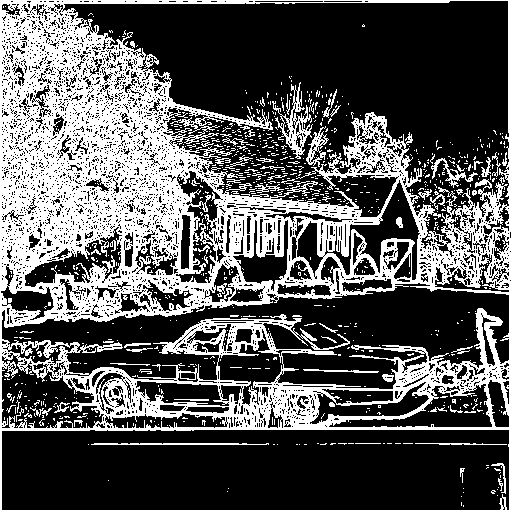
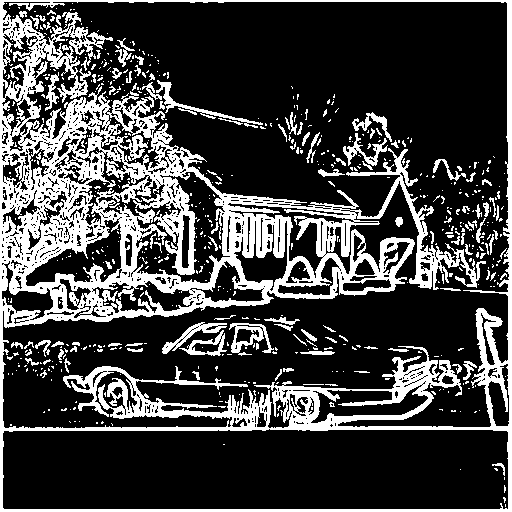
image output

diff --git a/HWcoding/HWcoding/HW5.cpp b/HWcoding/HWcoding/HW5.cpp
@@ -5,12 +5,6 @@
 using namespace std;
 using namespace cv;
 
-enum class FilterMethod {
-	MEAN,
-	MEDIAN,
-	GAUSSIAN
-};
-
 enum class EdgeOperatorName {
 	PREWITT_VERTICAL,
 	PREWITT_HORIZONTAL,
@@ -22,19 +16,20 @@ enum class EdgeOperatorName {
 	LAPLACIAN_TWO
 };
 
-class FilterImage {
+class GassianFilter {
 private:
+	const int KERNEL_SIZE = 3;
 	vector<double> _gaussianKernel;
-	uchar(FilterImage::* _getValueFunc)(vector<uchar>) = nullptr;
+	int rowIndex, colIndex;
 
 	// 用kernelSize*kernelSize卷積回傳鄰近的像素點
-	vector<uchar> getConvolutionList(const Mat& source, int row, int col, int kernelSize) {
-		vector<uchar> pixelList(kernelSize * kernelSize);
+	vector<uchar> getConvolutionList(const Mat& source) {
+		vector<uchar> pixelList(KERNEL_SIZE * KERNEL_SIZE);
 		int pixelListIndex = 0;
-		int start = -kernelSize / 2, end = start + kernelSize - 1; // if kernelSize = 3*3, start = -1, end = 1 etc...
+		int start = -KERNEL_SIZE / 2, end = start + KERNEL_SIZE - 1; // if kernelSize = 3*3, start = -1, end = 1 etc...
 		for (int windowRow = start; windowRow <= end; ++windowRow) {
 			for (int windowCol = start; windowCol <= end; ++windowCol) {
-				int nRow = row + windowRow, nCol = col + windowCol;
+				int nRow = rowIndex + windowRow, nCol = colIndex + windowCol;
 				if (nRow >= 0 && nRow < source.rows && nCol >= 0 && nCol < source.cols) {
 					pixelList.at(pixelListIndex++) = source.at<uchar>(nRow, nCol);
 				}
@@ -44,41 +39,6 @@ private:
 			}
 		}
 		return pixelList;
-	}
-
-	// 取得卷積範圍內的 Mean 值
-	uchar getMeanValue(vector<uchar> pixelList) {
-		int value = 0;
-		int pixelAmount = pixelList.size();
-		for (int pixelIndex = 0; pixelIndex < pixelAmount; ++pixelIndex) {
-			value += (int)pixelList.at(pixelIndex);
-		}
-		return round((double)value / pixelAmount);
-	}
-
-	// 快速排序函数
-	void quickSort(vector<uchar>& nums, int left, int right) {
-		if (left >= right) return;
-		int i = left, j = right, pivot = nums[left + (right - left) / 2];
-		while (i <= j) {
-			while (nums[i] < pivot) i++;
-			while (nums[j] > pivot) j--;
-			if (i <= j) {
-				swap(nums[i], nums[j]);
-				i++;
-				j--;
-			}
-		}
-		quickSort(nums, left, j);
-		quickSort(nums, i, right);
-	}
-
-	// 取得卷積範圍內排序後的 Median 值
-	uchar getMedianValue(vector<uchar> pixelList) {
-		quickSort(pixelList, 0, pixelList.size() - 1);
-		int index = 0;
-		int medianIndex = (pixelList.size() - 1) / 2;
-		return pixelList.at(medianIndex);
 	}
 
 	// 取得卷積範圍內的 Gaussian 值
@@ -91,16 +51,17 @@ private:
 	}
 
 public:
-	string FileName, FileExt;
-
-	FilterImage() {	}
+	GassianFilter() {
+		rowIndex = 0;
+		colIndex = 0;
+	}
 
 	// 依照給定的 kernel 大小和標準化參數給出 kernel權重值
-	void setGaussianKernel(int kernelSize, double standardDeviation) {
-		_gaussianKernel = vector<double>(kernelSize * kernelSize);
+	void setGaussianKernel(double standardDeviation) {
+		_gaussianKernel = vector<double>(KERNEL_SIZE * KERNEL_SIZE);
 		double weightTotal = 0;
 		double kernelIndex = 0;
-		int start = -kernelSize / 2, end = start + kernelSize - 1; // if kernelSize = 3*3, start = -1, end = 1 etc...
+		int start = -KERNEL_SIZE / 2, end = start + KERNEL_SIZE - 1; // if kernelSize = 3*3, start = -1, end = 1 etc...
 		for (int windowRow = start; windowRow <= end; ++windowRow) {
 			for (int windowCol = start; windowCol <= end; ++windowCol) {
 				double rowSquare = pow(windowRow, 2), colSquare = pow(windowCol, 2);
@@ -116,37 +77,18 @@ public:
 		}
 	}
 
-	// 設定灰階化圖像
-	void updateGrayScaleImage(Mat& source) {
-		Mat grayImage = Mat(source.rows, source.cols, CV_8UC1);
-		const uchar* imagePtr;
-		uchar* gray;
-		for (int row = 0; row < source.rows; ++row) {
-			imagePtr = source.ptr<uchar>(row);
-			gray = grayImage.ptr<uchar>(row);
-			for (int col = 0; col < source.cols; ++col) {
-				uchar blue = *imagePtr++, green = *imagePtr++, red = *imagePtr++;
-				*gray++ = (0.3 * red) + (0.59 * green) + (0.11 * blue);
-			}
-		}
-		grayImage.copyTo(source);
-	}
-
 	// 取得特定方法過濾圖像
-	void getFilterImageByMode(Mat& source, Mat& dest, FilterMethod mode, int kernelSize, int deep) {
+	void getGaussianFilterImageByDeep(Mat& source, Mat& dest, int deep) {
 		Mat referenceImage, processImage;
-		if (mode == FilterMethod::MEAN) _getValueFunc = &FilterImage::getMeanValue;
-		else if (mode == FilterMethod::MEDIAN) _getValueFunc = &FilterImage::getMedianValue;
-		else if (mode == FilterMethod::GAUSSIAN) _getValueFunc = &FilterImage::getGaussianValue;
 		source.copyTo(referenceImage);
 		processImage.create(source.rows, source.cols, CV_8UC1);
 		for (int repeat = 0; repeat < deep; ++repeat) {
 			uchar* processPtr;
-			for (int row = 0; row < source.rows; ++row) {
-				processPtr = processImage.ptr<uchar>(row);
-				for (int col = 0; col < source.cols; ++col) {
-					vector<uchar> pixelList = getConvolutionList(referenceImage, row, col, kernelSize);
-					*processPtr++ = (this->*_getValueFunc)(pixelList);
+			for (rowIndex = 0; rowIndex < source.rows; ++rowIndex) {
+				processPtr = processImage.ptr<uchar>(rowIndex);
+				for (colIndex = 0; colIndex < source.cols; ++colIndex) {
+					vector<uchar> pixelList = getConvolutionList(referenceImage);
+					*processPtr++ = getGaussianValue(pixelList);
 				}
 			}
 			processImage.copyTo(referenceImage);
@@ -205,7 +147,7 @@ private:
 	}
 
 	bool isOverThreshold(int threshold, int value1, int value2) {
-		int tangent = sqrt(pow(value1, 2) + pow(value2, 2));
+		int tangent = abs(value1) + abs(value2);
 		return tangent >= threshold;
 	}
 
@@ -283,7 +225,6 @@ public:
 		size_t dot_pos = name.rfind('.');
 		this->FileName = name.substr(0, dot_pos);
 		this->FileExt = name.substr(dot_pos);
-
 	}
 
 	// 類別初始化
@@ -298,42 +239,42 @@ int main() {
 
 	// 設定各圖像處理參數
 	vector<ImageInfo> imageList{
-		//ImageInfo("House512.png", 70, 70, 10, 25 ),
-		ImageInfo("Lena.png", 80, 95, 8, 20),
-		//ImageInfo("Mandrill.png", 70, 70, 10, 25)
+		//ImageInfo("House512.png", 60, 80, 10, 25 ),
+		//ImageInfo("Lena.png", 80, 95, 8, 20),
+		ImageInfo("Mandrill.png", 90, 110, 8, 25)
 	};
 
 	// 執行各圖像處理
 	EdgeDetector edgeDetector;
-	FilterImage filter;
-	filter.setGaussianKernel(3, 0.707);
+	GassianFilter filter;
+	filter.setGaussianKernel(1.414);
 	for (ImageInfo& image : imageList) {
 		const Mat sourceImage = imread("../Image/Source/" + image.FileName + image.FileExt);
 		Mat grayImage;
 		edgeDetector.updateGrayScaleImage(sourceImage, grayImage);
 		imshow(image.FileName, grayImage);
 		Mat resultImage;
-		edgeDetector.getEdgeImageByMethod(grayImage, resultImage, EdgeOperatorName::PREWITT_VERTICAL, image.PrewittThreshold);
+		Mat gaussianImage, laplacianImage;
+		filter.getGaussianFilterImageByDeep(grayImage, gaussianImage, 2);
+		edgeDetector.getEdgeImageByMethod(gaussianImage, resultImage, EdgeOperatorName::PREWITT_VERTICAL, image.PrewittThreshold);
 		//imshow(image.FileName + " prewitt vertical", resultImage);
 		image.write("prewitt_vertical", resultImage);
-		edgeDetector.getEdgeImageByMethod(grayImage, resultImage, EdgeOperatorName::PREWITT_HORIZONTAL, image.PrewittThreshold);
+		edgeDetector.getEdgeImageByMethod(gaussianImage, resultImage, EdgeOperatorName::PREWITT_HORIZONTAL, image.PrewittThreshold);
 		//imshow(image.FileName + " prewitt horizontal", resultImage);
 		image.write("prewitt_horizontal", resultImage);
-		edgeDetector.getEdgeImageByMethod(grayImage, resultImage, EdgeOperatorName::PREWITT_BOTH, image.PrewittThreshold);
+		edgeDetector.getEdgeImageByMethod(gaussianImage, resultImage, EdgeOperatorName::PREWITT_BOTH, image.PrewittThreshold);
 		imshow(image.FileName + " prewitt both", resultImage);
 		image.write("prewitt_both", resultImage);
-		edgeDetector.getEdgeImageByMethod(grayImage, resultImage, EdgeOperatorName::SOBEL_VERTICAL, image.SobelThreshold);
+		edgeDetector.getEdgeImageByMethod(gaussianImage, resultImage, EdgeOperatorName::SOBEL_VERTICAL, image.SobelThreshold);
 		//imshow(image.FileName + " sobel vertical", resultImage);
 		image.write("sobel_vertical", resultImage);
-		edgeDetector.getEdgeImageByMethod(grayImage, resultImage, EdgeOperatorName::SOBEL_HORIZONTAL, image.SobelThreshold);
+		edgeDetector.getEdgeImageByMethod(gaussianImage, resultImage, EdgeOperatorName::SOBEL_HORIZONTAL, image.SobelThreshold);
 		//imshow(image.FileName + " sobel horizontal", resultImage);
 		image.write("sobel_horizontal", resultImage);
-		edgeDetector.getEdgeImageByMethod(grayImage, resultImage, EdgeOperatorName::SOBEL_BOTH, image.SobelThreshold);
+		edgeDetector.getEdgeImageByMethod(gaussianImage, resultImage, EdgeOperatorName::SOBEL_BOTH, image.SobelThreshold);
 		imshow(image.FileName + " sobel both", resultImage);
 		image.write("sobel_both", resultImage);
-		
-		Mat gaussianImage, laplacianImage;
-		filter.getFilterImageByMode(grayImage, gaussianImage, FilterMethod::GAUSSIAN, 3, 2);
+
 		//imshow(image.FileName + " gaussian", gaussianImage);
 		edgeDetector.getEdgeImageByMethod(gaussianImage, resultImage, EdgeOperatorName::LAPLACIAN_ONE, image.LaplacianOneThreshold);
 		imshow(image.FileName + " laplacian 1", resultImage);
